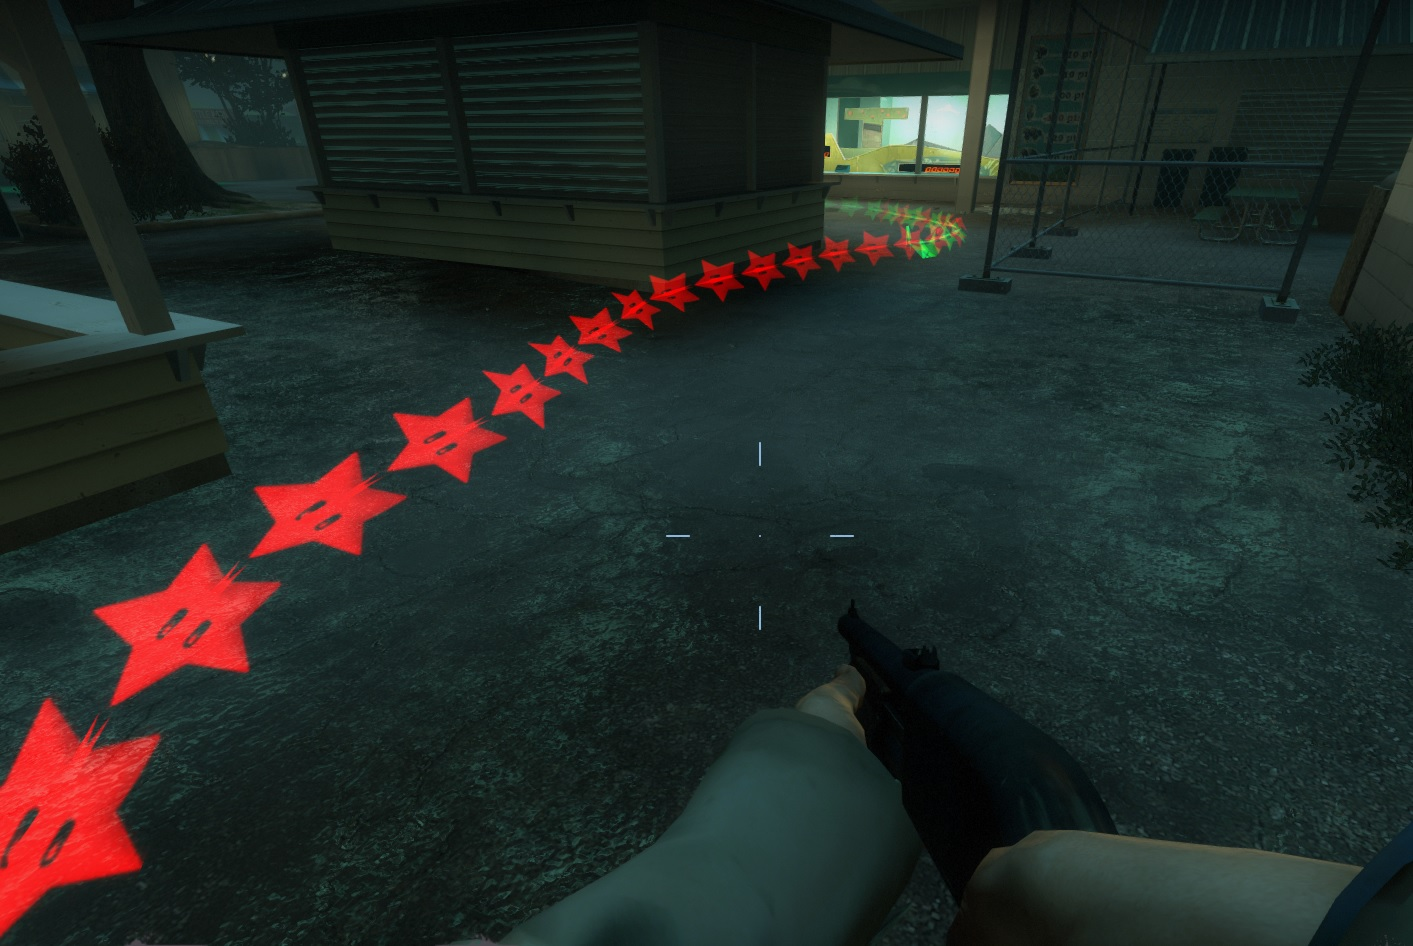
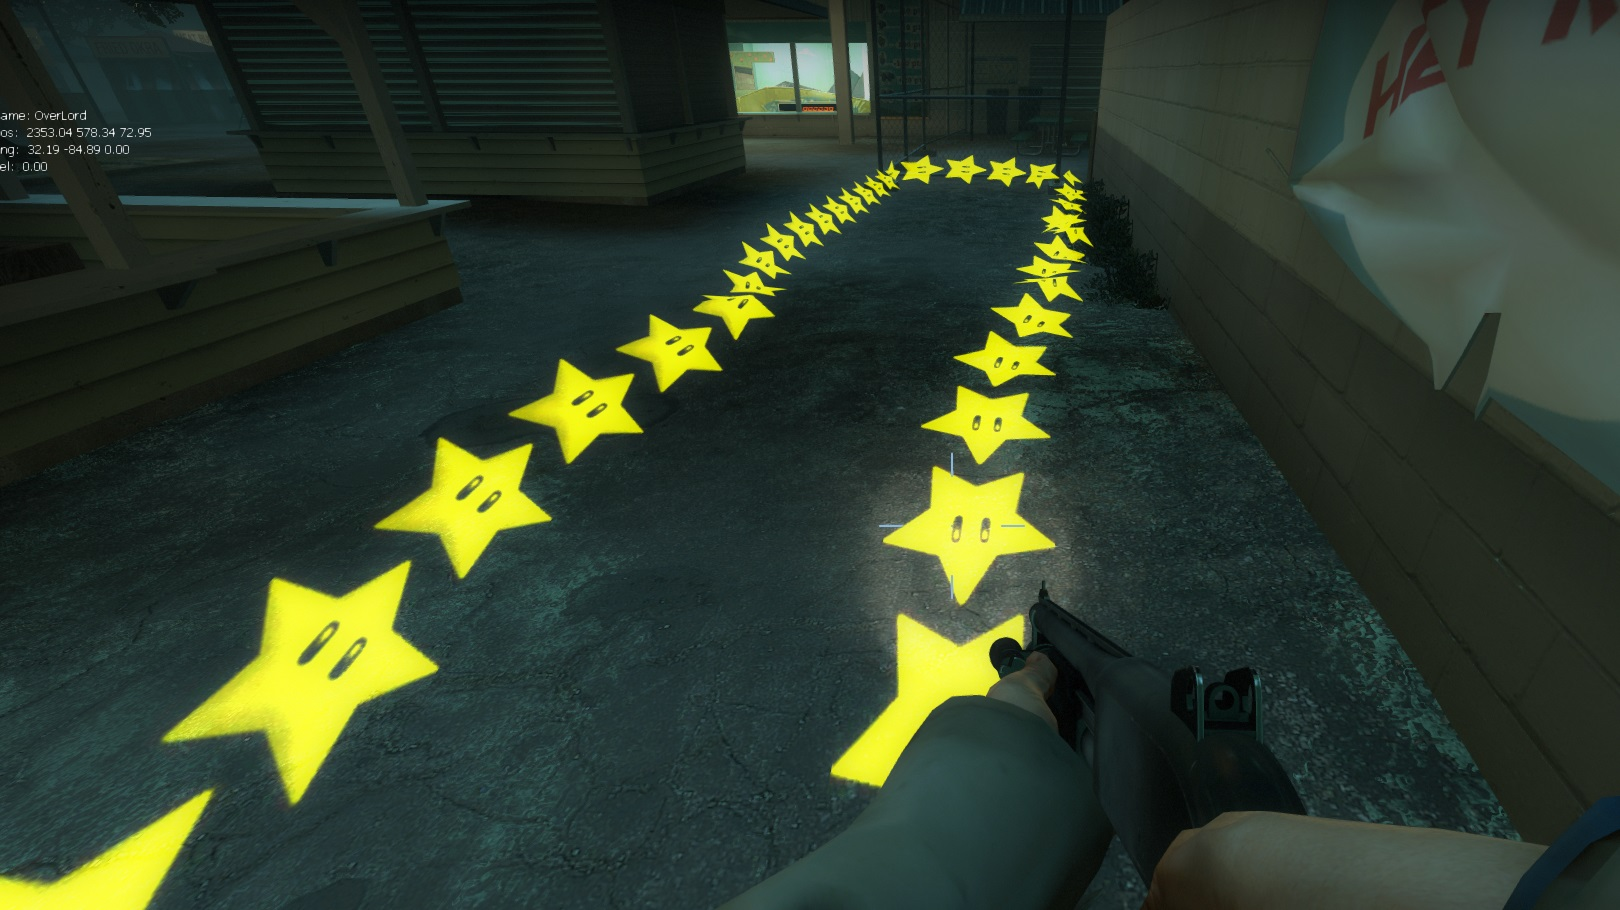
2022_10_6 updated

diff --git a/l4d_player_tail/readme.md b/l4d_player_tail/readme.md
@@ -27,7 +27,7 @@ L4D2
 ```
 
 * <details><summary>Changelog | 版本日誌</summary>
-	* v1.2
+	* v1.3
 	    * Original Request by 壹梦
 </details>
 
@@ -37,7 +37,7 @@ L4D2
 
 * Similar Plugin | 相似插件
 	1. [l4d_player_spritetrail](https://github.com/fbef0102/Game-Private_Plugin/tree/main/l4d_player_spritetrail)
-	> 一樣式尾巴特效，看自己喜歡用哪一種
+	> 一樣是尾巴特效，看自己喜歡用哪一種
 
 * Note | 注意事項
 	* l4d_player_tail_lifetime must greater than or equal to l4d_player_tail_changecolor_interval
@@ -63,7 +63,7 @@ L4D2
 	l4d_player_tail_color "-1 -1 -1"
 
 	// Transparency of the tail (10-255).
-	l4d_player_tail_color_alpha "100"
+	l4d_player_tail_color_alpha "150"
 
 	// 1=Enable Tail effect for everyone default? [1-Enable/0-Disable]
 	l4d_player_tail_default_value "1"
@@ -76,6 +76,9 @@ L4D2
 
 	// How long the beam is shown. (Tail could temporarily disappear if player stop moving)
 	l4d_player_tail_lifetime "5.0"
+
+	// If 1, setup small beam sprite in middle of tail
+	l4d_player_tail_middle_beam "1"
 
 	// Tail Sprite model.
 	l4d_player_tail_sprite_model "materials/sprites/store/trails/8bitmushroom.vmt"

diff --git a/l4d_player_spritetrail/readme.md b/l4d_player_spritetrail/readme.md
@@ -33,7 +33,7 @@ L4D2
 
 * Similar Plugin | 相似插件
 	1. [l4d_player_tail](https://github.com/fbef0102/Game-Private_Plugin/tree/main/l4d_player_tail)
-	> 一樣式尾巴特效，看自己喜歡用哪一種
+	> 一樣是尾巴特效，看自己喜歡用哪一種
 
 * Note | 注意事項
 	* "l4d_player_spritetrail_lifetime" must greater than or equal to "l4d_player_spritetrail_changecolor_interval"
@@ -99,6 +99,7 @@ L4D2
 	1. 可自定義尾巴特效的寬度，消逝時間
 	2. 玩家可打命令自行決定尾巴的顏色
 	3. 尾巴過一段時間會隨機變色
+	4. 無法改變尾巴的貼圖
 
 * 注意事項
 	* "l4d_player_spritetrail_lifetime" 指令數值必須大於或等於 "l4d_player_spritetrail_changecolor_interval" 指令數值
